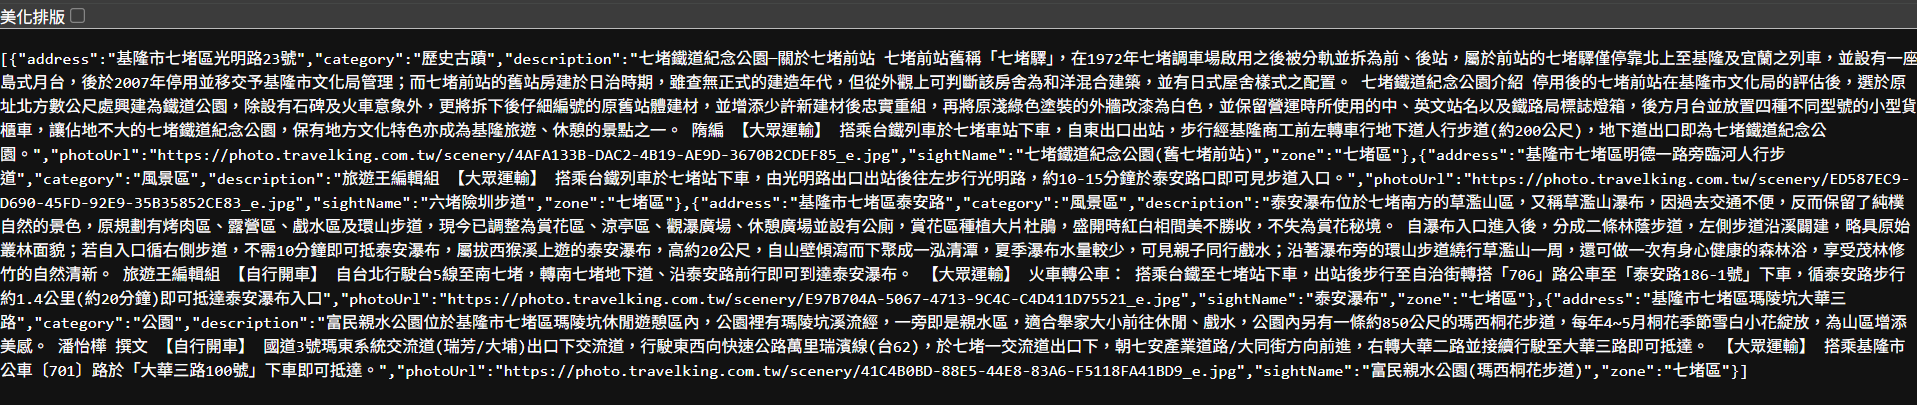
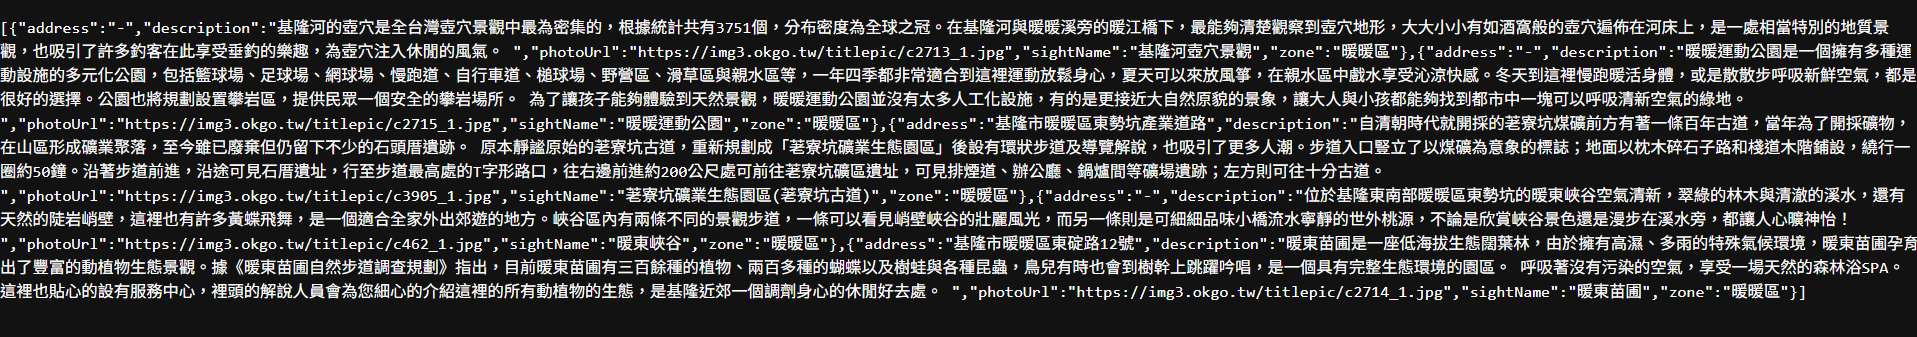
fix the broken website

diff --git a/hw2/src/main/java/com/example/rest_service/KeelungSightsCrawler.java b/hw2/src/main/java/com/example/rest_service/KeelungSightsCrawler.java
@@ -9,43 +9,94 @@ public class KeelungSightsCrawler {
 
     public KeelungSightsCrawler() {}
 
-    public Sight[] getItems(String zone) {
-        String url = "https://www.travelking.com.tw/tourguide/taiwan/keelungcity/" + zone + "/";
+    public Sight[] getItems(String town) {
+//        String url = "https://www.travelking.com.tw/tourguide/taiwan/keelungcity/" + zone + "/";
+//        try {
+//            Document doc = Jsoup.connect(url).get();
+//            Elements links = doc.select("#guide-point .box a[href]");
+//            Sight sights[] = new Sight[links.size()];
+//
+//            for (int i = 0;i < links.size();++i) {
+//                String linkHref = links.get(i).absUrl("href");
+//                try {
+//                    Document Newdoc = Jsoup.connect(linkHref).get();
+//                    Sight s = new Sight();
+//                    s.setSightName(Newdoc.select(".h1").text());
+//                    s.setZone(doc.select(".this_title").text());
+//                    Element elementUrl = Newdoc.select("#galleria .gpic img").first();
+//                    String imgUrl;
+//                    if (elementUrl != null) {
+//                        imgUrl = elementUrl.attr("src");
+//                    } else {
+//                        imgUrl = "No PhotoUrl";
+//                    }
+//
+//                    s.setPhotoUrl(imgUrl);
+//                    s.setDescription(Newdoc.select(".text ").text());
+//                    s.setAddress(Newdoc.select("#point_data span").text());
+//
+//                    sights[i] = s;
+//
+//                } catch (Exception e) {
+//                    throw new RuntimeException(e);
+//                }
+//            }
+//            return sights;
+//
+//        } catch (Exception e) {
+//            throw new RuntimeException(e);
+//        }
+        String url = "https://okgo.tw/buty/keelung.html";
+
         try {
             Document doc = Jsoup.connect(url).get();
-            Elements links = doc.select("#guide-point .box a[href]");
-            Sight sights[] = new Sight[links.size()];
+            Elements links = doc.select("#"+ town + "  ul  li a[href]");
+            Sight[] sights = new Sight[links.size()];
 
             for (int i = 0;i < links.size();++i) {
-                String linkHref = links.get(i).absUrl("href");
+                String detailUrl = links.get(i).absUrl("href");
                 try {
-                    Document Newdoc = Jsoup.connect(linkHref).get();
-                    Sight s = new Sight();
-                    s.setSightName(Newdoc.select(".h1").text());
-                    s.setZone(doc.select(".this_title").text());
-                    s.setCategory(Newdoc.select("cite strong").text());
-                    Element elementUrl = Newdoc.select("#galleria .gpic img").first();
-                    String imgUrl;
-                    if (elementUrl != null) {
-                        imgUrl = elementUrl.attr("src");
-                    } else {
-                        imgUrl = "No PhotoUrl";
-                    }
+                    Document detail = Jsoup.connect(detailUrl).get();
 
-                    s.setPhotoUrl(imgUrl);
-                    s.setDescription(Newdoc.select(".text ").text());
-                    s.setAddress(Newdoc.select("#point_data span").text());
+                    Sight s = new Sight();
+                    //set name
+                    s.setSightName(detail.select(".sec3 h2").text());
+
+                    //set address
+                    String fullText = detail.select(".sec3").text();
+                    String address = "";
+                    if (fullText.contains("地址：")) {
+                        int startIndex = fullText.indexOf("地址：") + 3;
+                        int endIndex = fullText.indexOf("文章來源",startIndex);
+                        if (endIndex == -1) endIndex = startIndex;
+                        address = fullText.substring(startIndex,endIndex).trim();
+                    }
+                    s.setAddress(address);
+
+                    //set description
+                    s.setDescription(detail.select("div.sec3 > div:not(#FontSize):not(#Buty_View_PicSource)").text());
+
+                    //set photo url
+                    Element photoItem = detail.select(".sec3 #Buty_View_PicSource .pic img").first();
+                    if (photoItem != null) {
+                        s.setPhotoUrl(photoItem.attr("src"));
+                    } else {
+                        s.setPhotoUrl("-");
+                    }
+                    //set zone
+                    s.setZone(detail.select(".sec3 strong a[href*=town]").text());
 
                     sights[i] = s;
-
-                } catch (Exception e) {
-                    throw new RuntimeException(e);
+                }catch (Exception e) {
+                    System.err.println(e.getMessage());
+                    return new Sight[0];
                 }
             }
             return sights;
 
-        } catch (Exception e) {
-            throw new RuntimeException(e);
+        }catch (Exception e) {
+            System.err.println(e.getMessage());
+            return new Sight[0];
         }
     }
 }

diff --git a/hw2/src/main/java/com/example/rest_service/Sight.java b/hw2/src/main/java/com/example/rest_service/Sight.java
@@ -3,7 +3,6 @@ package com.example.rest_service;
 public class Sight implements java.io.Serializable {
     String sightName = null;
     String zone = null;
-    String category = null;
     String photoUrl = null;
     String address = null;
     String description = null;
@@ -16,10 +15,6 @@ public class Sight implements java.io.Serializable {
 
     public String getZone() {
         return zone;
-    }
-
-    public String getCategory() {
-        return category;
     }
 
     public String getPhotoUrl() {
@@ -42,10 +37,6 @@ public class Sight implements java.io.Serializable {
         this.zone = zone;
     }
 
-    public void setCategory(String category) {
-        this.category = category;
-    }
-
     public void setPhotoUrl(String photoUrl) {
         this.photoUrl = photoUrl;
     }
@@ -63,7 +54,6 @@ public class Sight implements java.io.Serializable {
         return "Sight{" +
                 "sightName='" + sightName + '\'' +
                 ", zone='" + zone + '\'' +
-                ", category='" + category + '\'' +
                 ", photoUrl='" + photoUrl + '\'' +
                 ", address='" + address + '\'' +
                 ", description='" + description + '\'' +

diff --git a/hw2/src/main/java/com/example/rest_service/SightService.java b/hw2/src/main/java/com/example/rest_service/SightService.java
@@ -23,11 +23,11 @@ public class SightService {
         zoneMap.put("nuannuan", "暖暖區");
 
         KeelungSightsCrawler crawler = new KeelungSightsCrawler();
-        String[] zones = {"qidu", "zhongshan", "zhongzheng", "renai", "anle", "xinyi", "nuannuan"};
-        for (String zone : zones) {
-            Sight[] sights = crawler.getItems(zone);
-            for (Sight sight : sights) {
-                if (sight != null) allsights.add(sight);
+        String[] towns = {"Town1-1","Town1-2","Town1-3","Town1-4","Town1-5","Town1-6","Town1-7"};
+        for (String town : towns) {
+            Sight[] sights = crawler.getItems(town);
+            for (Sight s : sights) {
+                if (s != null) allsights.add(s);
             }
         }
     }

diff --git a/hw2/Readme.md b/hw2/Readme.md
@@ -34,7 +34,7 @@ HW2 基隆景點查詢WebAPI
 ### 6.API範例
 + Endpoint：GET /api/sights/{zone}
 + Request 範例：[http://127.0.0.1:8080/api/sights/nuannuan](http://127.0.0.1:8080/api/sights/nuannuan)
-+ Response 範例：[{"address":"基隆市暖暖區東勢街","category":"風景區","description":"在基隆市暖暖區東邊山區與新北市十分寮僅一山之隔的東勢坑，有一處名為「暖東峽谷」的幽靜峽谷。山谷底下有淺淺清澈的溪流，谷中怪石嶙峋，溪邊有峭壁、岩洞，峭壁上還有一個蝙蝠洞，傳說有蝙蝠棲息經常有蝙蝠出入洞口，蔚為奇觀十分雄奇、壯觀，峽谷區內的林相完整，以筆筒樹為大宗。 循著石梯往上走可通往觀景區，沿途有原木建造而成的觀景亭，在此可欣賞瀑布、觀賞溪谷之美。溪流清澈見底，適合捉魚撈蝦、戲水等活動，也是炎炎夏日避暑的勝地。 旅遊王編輯組 ★ 自行開車 1、國道一號：由東北角（濱海）交流道下，右轉往八堵方向即可到達暖東峽谷。 2、國道一號：由東北角海岸交流道下，轉東勢街即可到達暖東峽谷。 3、國道一號：由八堵交流道下，走102乙縣道至暖暖區，再接東勢街左行至東勢坑村即可到達暖東峽谷。 ★ 大眾運輸 公車─由基隆市搭乘市公車603路往東勢坑方向之班車至終點站即可到達暖東峽谷。","photoUrl":"https://photo.travelking.com.tw/scenery/6E576D56-7736-41BC-AB5E-EE24A28E5B31_e.jpg","sightName":"暖東峽谷","zone":"暖暖區"}]
++ Response 範例：[{"address":"-","description":"基隆河的壺穴是全台灣壺穴景觀中最為密集的，根據統計共有3751個，分布密度為全球之冠。在基隆河與暖暖溪旁的暖江橋下，最能夠清楚觀察到壺穴地形，大大小小有如酒窩般的壺穴遍佈在河床上，是一處相當特別的地質景觀，也吸引了許多釣客在此享受垂釣的樂趣，為壺穴注入休閒的風氣。 ","photoUrl":"https://img3.okgo.tw/titlepic/c2713_1.jpg","sightName":"基隆河壺穴景觀","zone":"暖暖區"},{"address":"-","description":"暖暖運動公園是一個擁有多種運動設施的多元化公園，包括籃球場、足球場、網球場、慢跑道、自行車道、槌球場、野營區、滑草區與親水區等，一年四季都非常適合到這裡運動放鬆身心，夏天可以來放風箏，在親水區中戲水享受沁涼快感。冬天到這裡慢跑暖活身體，或是散散步呼吸新鮮空氣，都是很好的選擇。公園也將規劃設置攀岩區，提供民眾一個安全的攀岩場所。 為了讓孩子能夠體驗到天然景觀，暖暖運動公園並沒有太多人工化設施，有的是更接近大自然原貌的景象，讓大人與小孩都能夠找到都市中一塊可以呼吸清新空氣的綠地。 ","photoUrl":"https://img3.okgo.tw/titlepic/c2715_1.jpg","sightName":"暖暖運動公園","zone":"暖暖區"},{"address":"基隆市暖暖區東勢坑產業道路","description":"自清朝時代就開採的荖寮坑煤礦前方有著一條百年古道，當年為了開採礦物，在山區形成礦業聚落，至今雖已廢棄但仍留下不少的石頭厝遺跡。 原本靜謐原始的荖寮坑古道，重新規劃成「荖寮坑礦業生態園區」後設有環狀步道及導覽解說，也吸引了更多人潮。步道入口豎立了以煤礦為意象的標誌；地面以枕木碎石子路和棧道木階鋪設，繞行一圈約50鐘。沿著步道前進，沿途可見石厝遺址，行至步道最高處的T字形路口，往右邊前進約200公尺處可前往荖寮坑礦區遺址，可見排煙道、辦公廳、鍋爐間等礦場遺跡；左方則可往十分古道。 ","photoUrl":"https://img3.okgo.tw/titlepic/c3905_1.jpg","sightName":"荖寮坑礦業生態園區(荖寮坑古道)","zone":"暖暖區"},{"address":"-","description":"位於基隆東南部暖暖區東勢坑的暖東峽谷空氣清新，翠綠的林木與清澈的溪水，還有天然的陡岩峭壁，這裡也有許多黃蝶飛舞，是一個適合全家外出郊遊的地方。峽谷區內有兩條不同的景觀步道，一條可以看見峭壁峽谷的壯麗風光，而另一條則是可細細品味小橋流水寧靜的世外桃源，不論是欣賞峽谷景色還是漫步在溪水旁，都讓人心曠神怡！ ","photoUrl":"https://img3.okgo.tw/titlepic/c462_1.jpg","sightName":"暖東峽谷","zone":"暖暖區"},{"address":"基隆市暖暖區東碇路12號","description":"暖東苗圃是一座低海拔生態闊葉林，由於擁有高濕、多雨的特殊氣候環境，暖東苗圃孕育出了豐富的動植物生態景觀。據《暖東苗圃自然步道調查規劃》指出，目前暖東苗圃有三百餘種的植物、兩百多種的蝴蝶以及樹蛙與各種昆蟲，鳥兒有時也會到樹幹上跳躍吟唱，是一個具有完整生態環境的園區。 呼吸著沒有污染的空氣，享受一場天然的森林浴SPA。這裡也貼心的設有服務中心，裡頭的解說人員會為您細心的介紹這裡的所有動植物的生態，是基隆近郊一個調劑身心的休閒好去處。 ","photoUrl":"https://img3.okgo.tw/titlepic/c2714_1.jpg","sightName":"暖東苗圃","zone":"暖暖區"}]
 系統截圖
 
 ### 7.系統截圖
